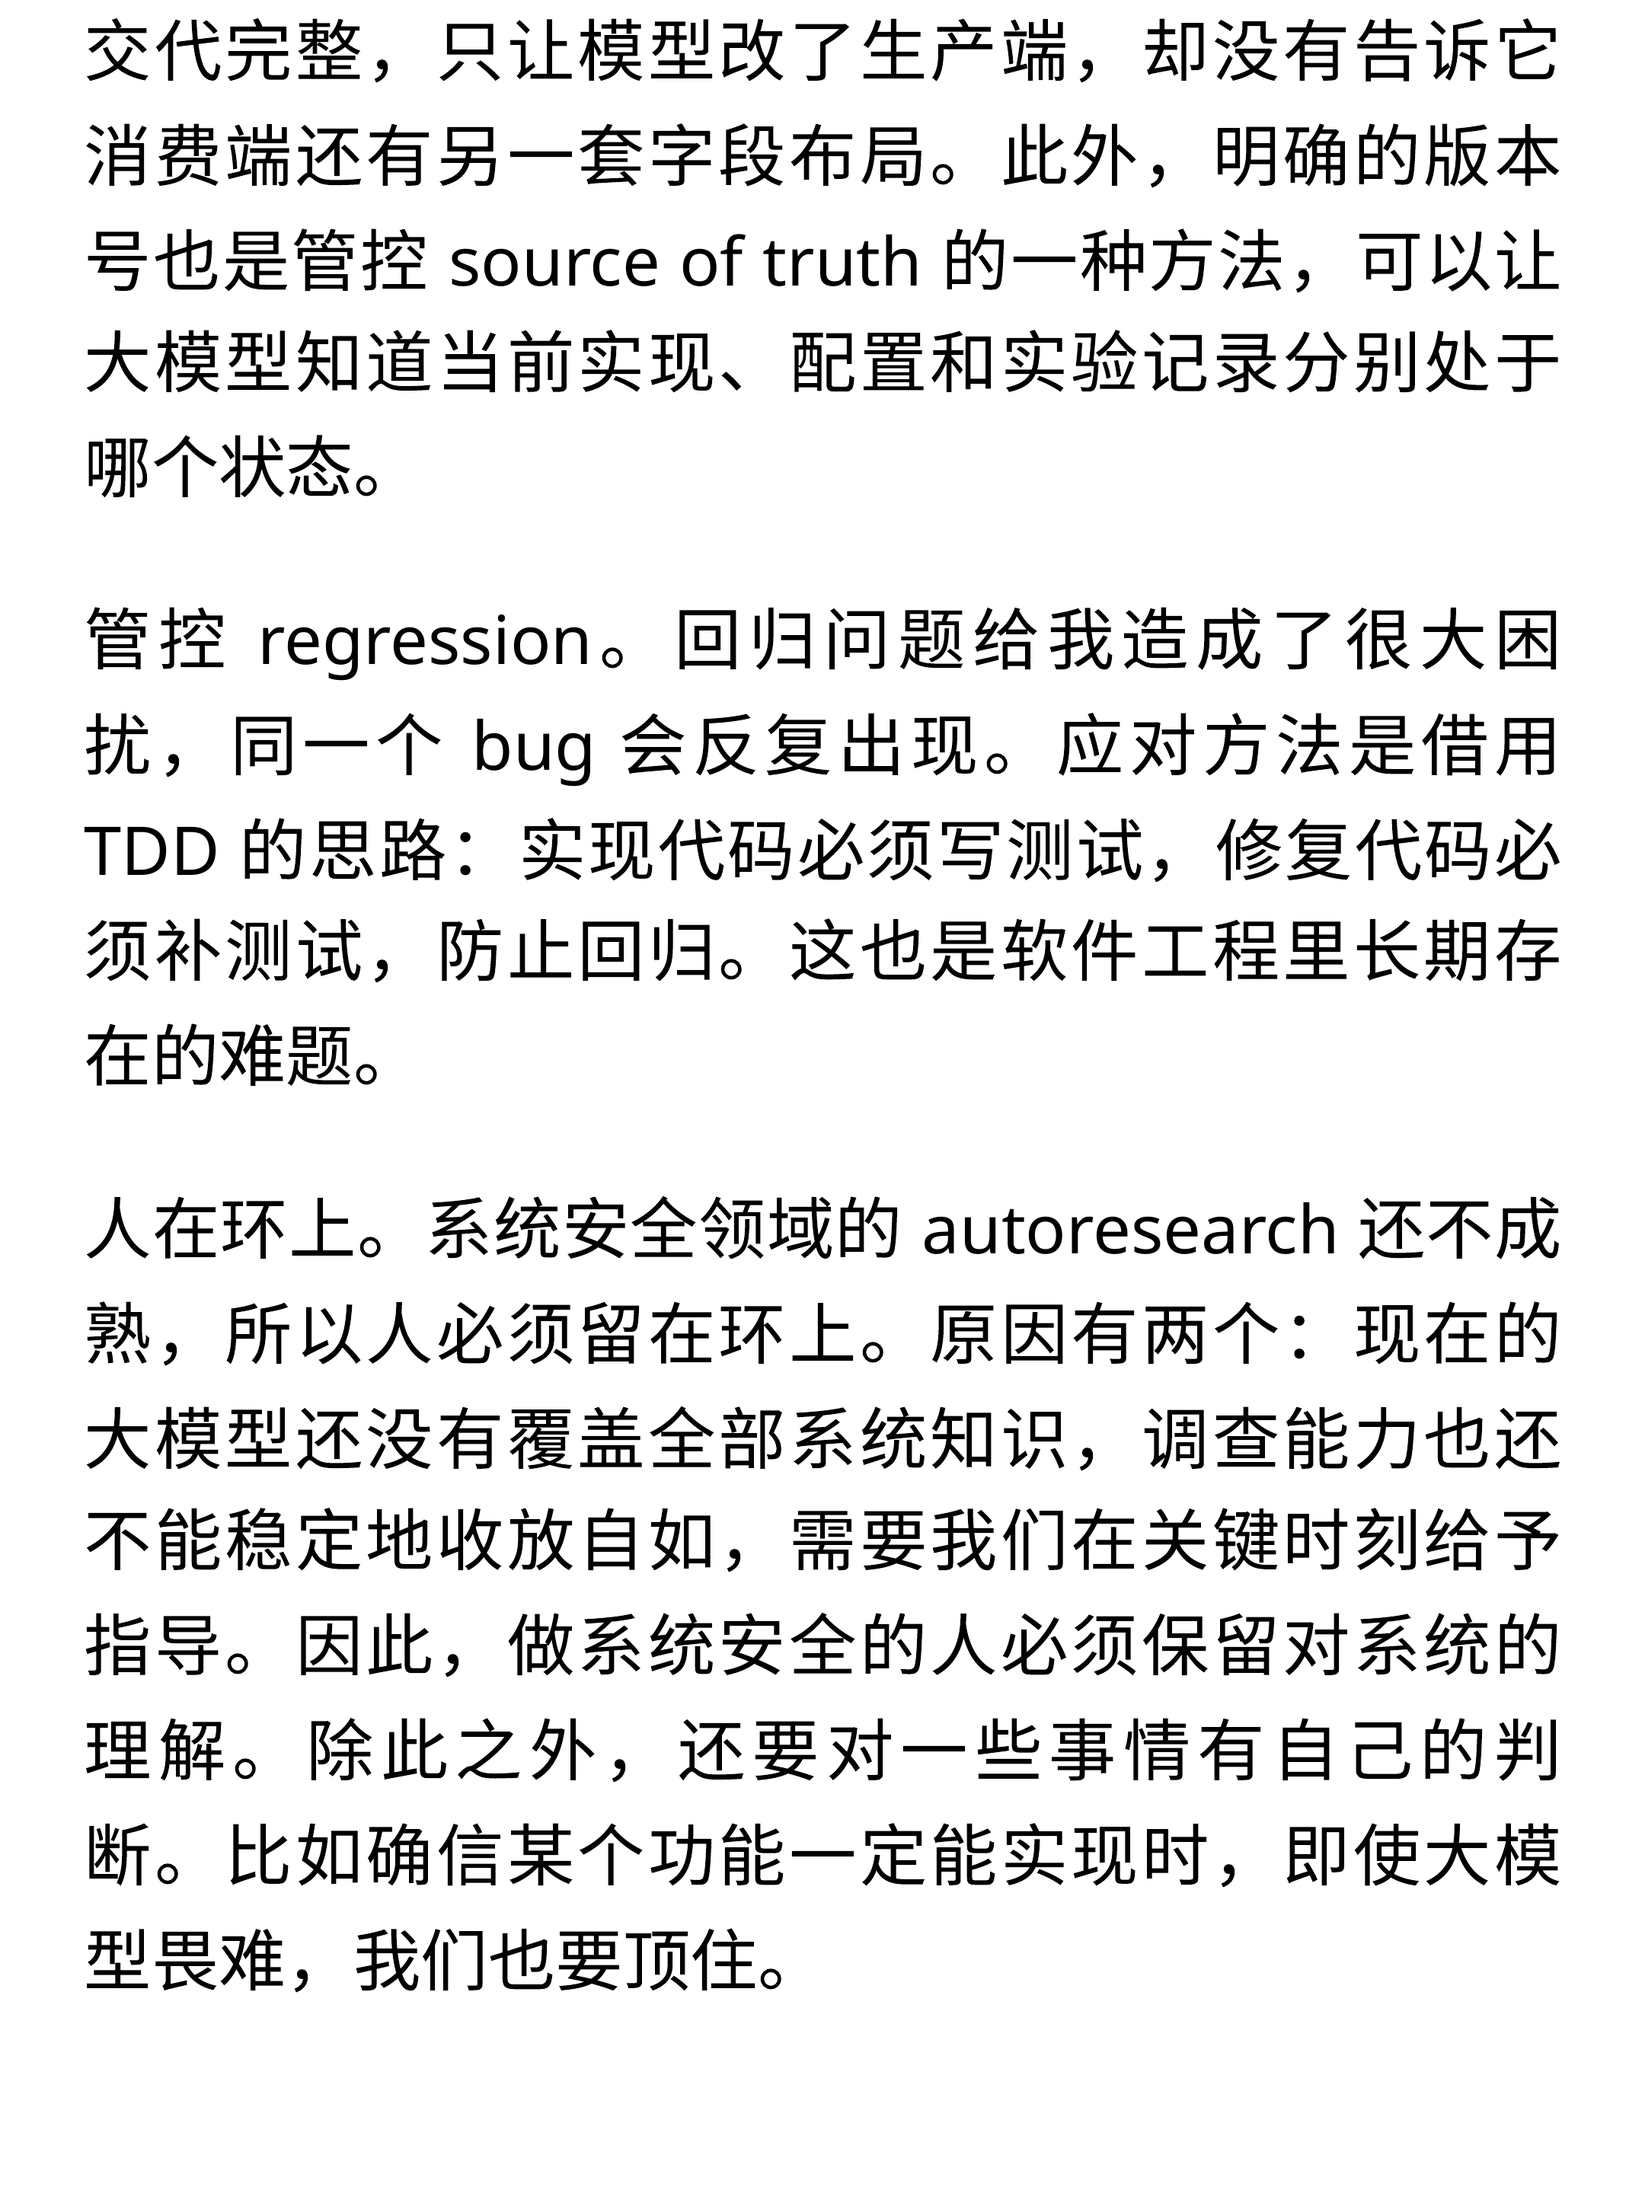
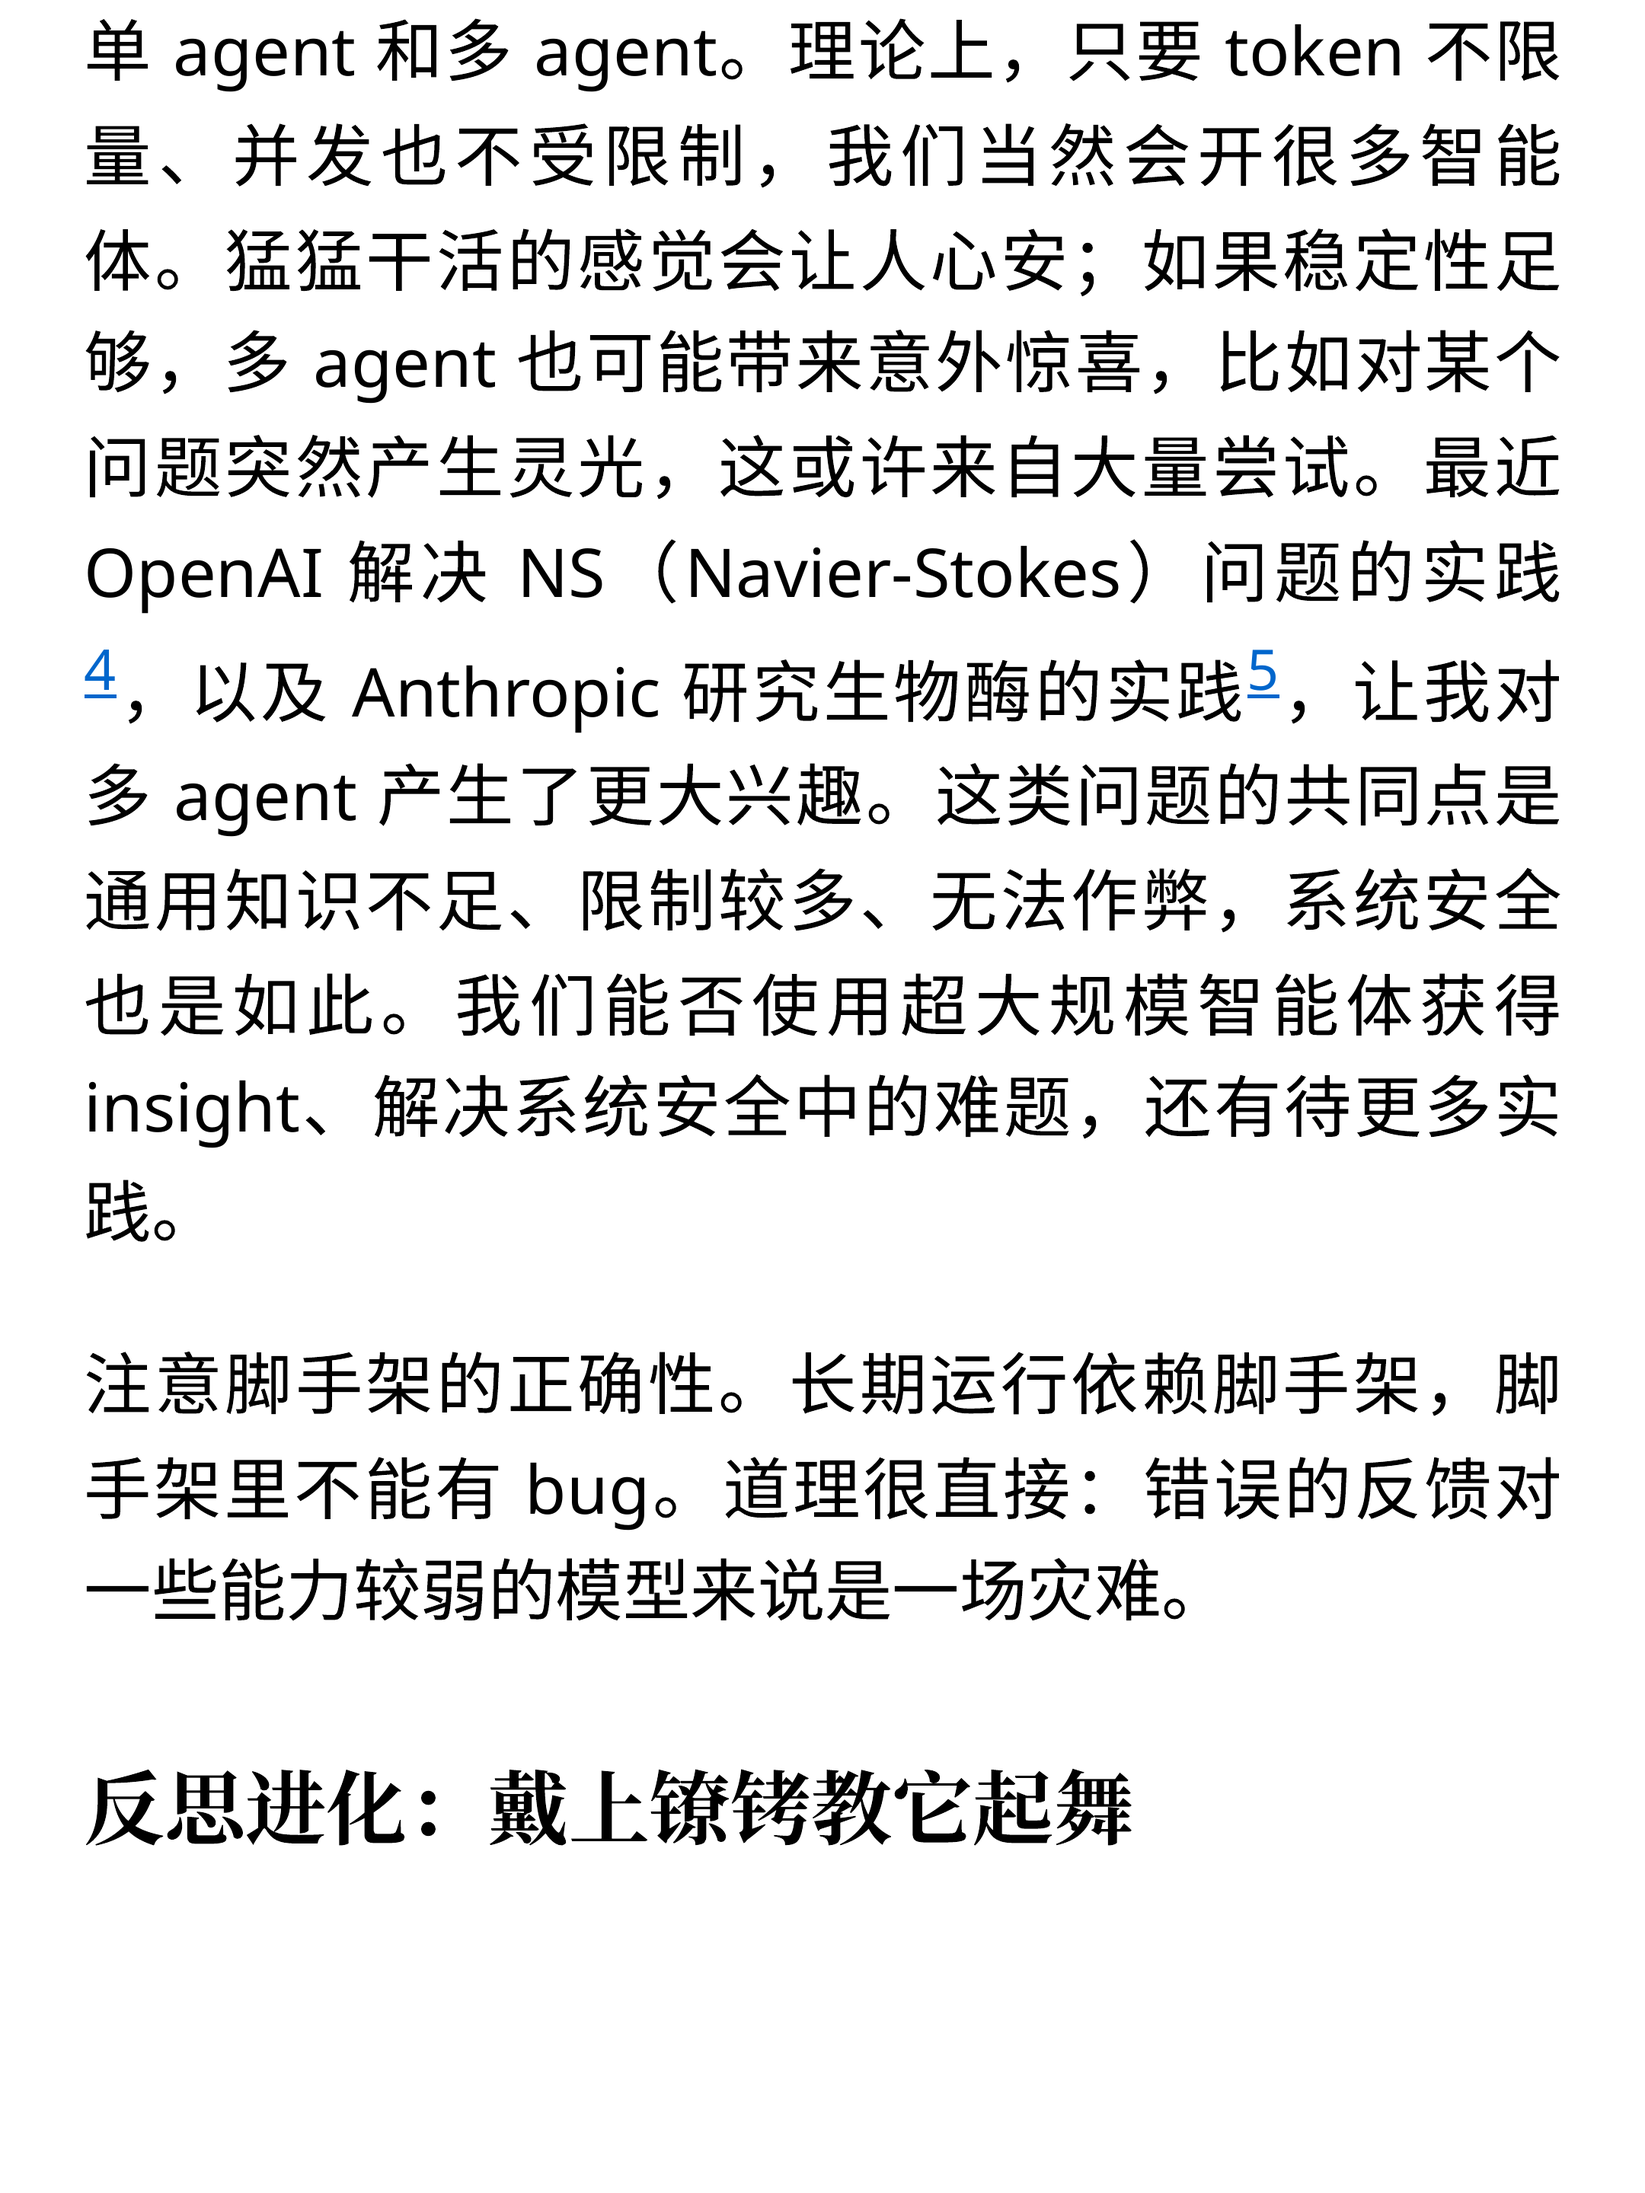
Drop recruitment section from syssec-not-hard-anymore post

Changed region(s): [[0.031, 0.0, 0.9616, 0.9062]]

diff --git a/b/src/content/blog/zh/syssec-not-hard-anymore.md b/b/src/content/blog/zh/syssec-not-hard-anymore.md
@@ -1,5 +1,5 @@
 ---
-title: "AI 时代系统安全研究与博士招生｜Morpheus 实践"
+title: "AI 时代系统安全研究｜Morpheus 实践"
 description: "分享 coding agent 如何降低系统安全研究门槛。"
 date: "2026-09-27"
 language: "zh"
@@ -7,29 +7,11 @@ slug: "syssec-not-hard-anymore"
 tags:
   - "系统安全"
   - "AI"
-  - "博士招生"
   - "基础软件"
   - "AI 智能体"
   - "系统安全编程"
 draft: false
 ---
-
-先说招生。
-
-> **博士招生信息**
->
-> 如果你对**基础软件和系统安全、AI 智能体和靶场、怎么做科研**感兴趣，欢迎联系我们。
->
-> - **招生项目**：大湾区大学—哈尔滨工业大学 2027 年联合培养博士研究生，专业学位招生领域为电子信息（0854）。
-> - **研究方向**：基础软件与全生命周期系统安全；网安大模型、AI 智能体与安全靶场；网络安全元科学与科研方法。
-> - **联合培养导师**：哈尔滨工业大学张伟哲教授、博士生导师。
-> - **培养与学位**：全日制非定向；在大湾区大学学习、住宿并开展研究，毕业证书和博士学位证书由哈尔滨工业大学颁发。
-> - **入学时间**：申请—考核拟录取者可选择 2027 年春季或秋季入学，但须在入学前取得硕士学位。
-> - **报名方式**：网上报名；“报考专业所在院系”选“哈尔滨工业大学（深圳）”，“专项计划”选择“大湾区”，报考前与导师联系确认。
-> - **报名截止时间**：延长至 **2026 年 10 月 7 日**。
-> - **联系邮箱**：请发送至 cyruscyliu@gmail.com，并抄送 wzzhang@hit.edu.cn。
->
-> 完整政策与申请条件备查：<https://www.55aaseclab.com/zh/blog/gbu-hit-2027-joint-phd-admissions/>
 
 2 月以来，coding agent 极大地提高了我的科研推进速度，我想大家都有同感。自 2 月以来，我在 EPFL 博后期间（将于今年 1 月加入大湾区大学）累计使用了 477.716 亿词元。作为博士后，我同时运转着五六个项目，已经练就了快速切换上下文的能力，但一遇到内核、hypervisor，往往还是觉得时间不够。领域知识太难了。有了 coding agent 之后，学习领域知识的阻力小了很多，但新的问题也出现了：如何保证结果稳定。于是我构建了一个用于系统安全的工作流框架，这也对我的编程能力提出了新的要求。踩了无数坑之后，我终于可以更专注地思考项目的创新和影响力，于是想写点东西，分享系统安全编程在 AI 时代的新范式。这个工作流框架已经开源在 Morpheus[^1]。系统安全编程的门槛降低了，从事系统安全研究的阻力也小了不少。下面是一些总结。
 
